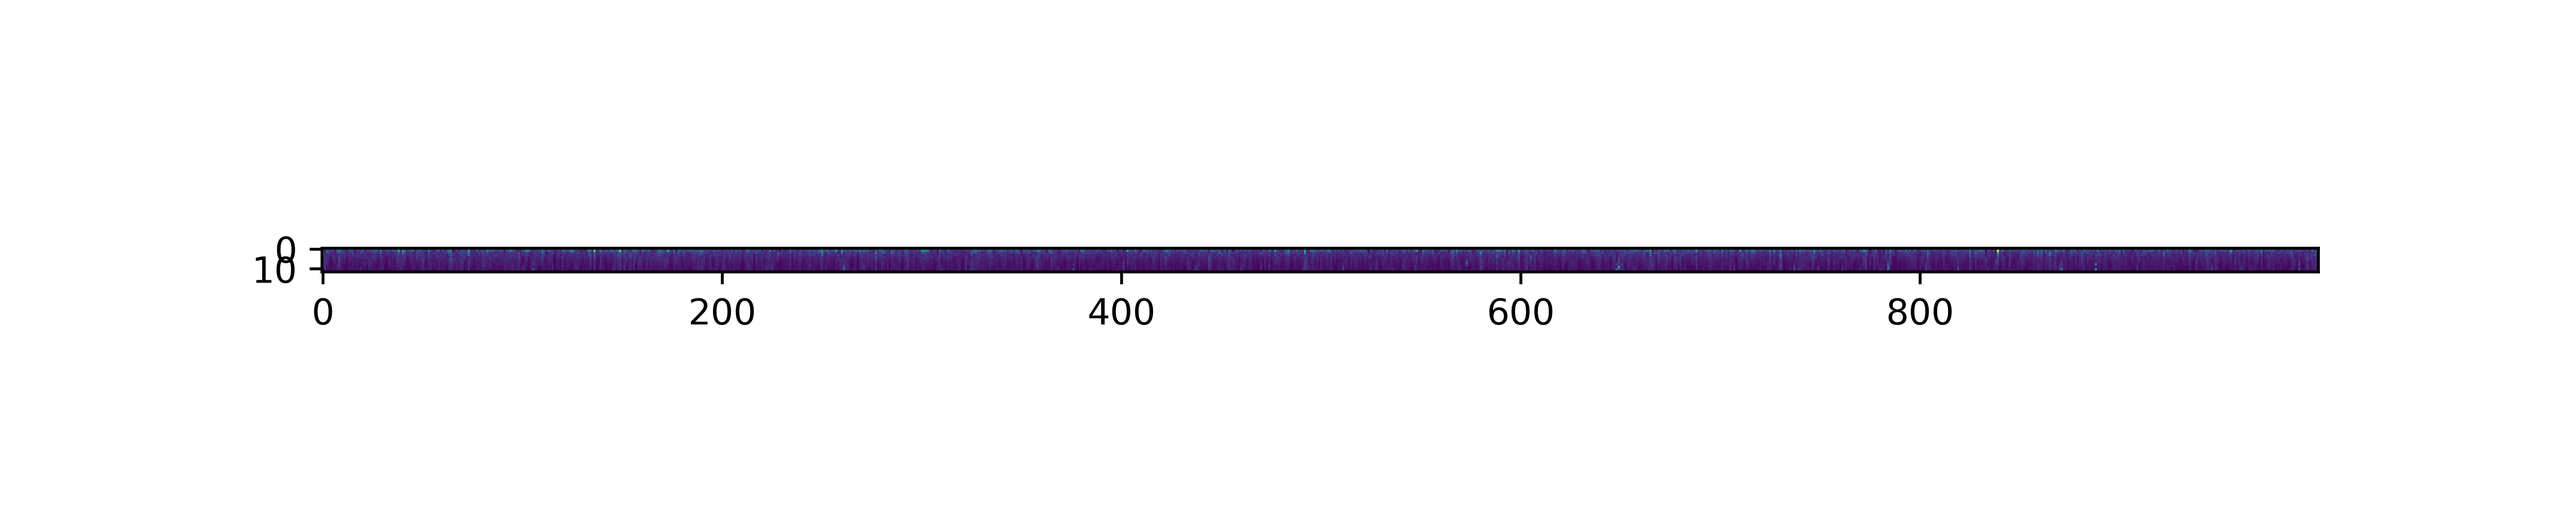
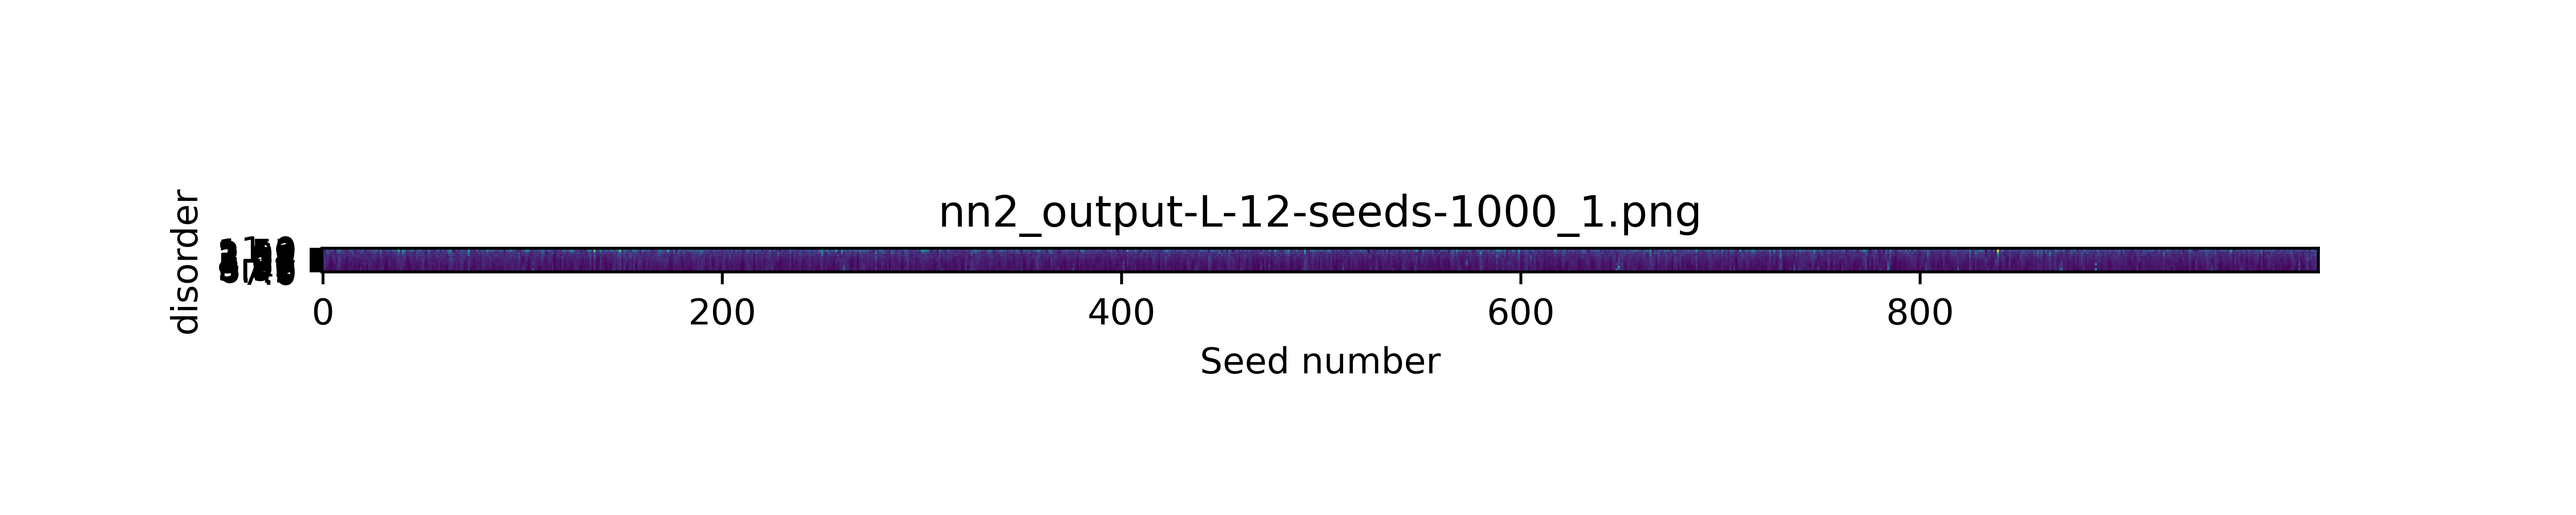
a

Changed region(s): [[0.3432, 0.372, 0.6552, 0.465], [0.0624, 0.403, 0.1248, 0.651], [0.468, 0.682, 0.5616, 0.744]]

diff --git a/Cluster/imshow_2nn.py b/Cluster/imshow_2nn.py
@@ -15,10 +15,24 @@ for seed in range(1000):
 data = np.array(data).T
 print(data)
 
-plt.figure(figsize=(5,10))
+plt.figure(figsize=(10,2))
 plt.imshow(data)
-plt.savefig("nn2_output-L-{}-seeds-{}.png".format(L, seed+1), dpi=500)
 plt.xlabel('Seed number')
 plt.ylabel("disorder")
 plt.yticks(range(12),[1.0, 1.55, 2.09, 2.64, 3.18, 3.73, 4.27, 4.82, 5.36, 5.91, 6.45, 7.0])
-plt.title("nn2_output-L-{}-seeds-{}.png".format(L, seed+1))
+plt.title("nn2_output-L-{}-seeds-{}_1.png".format(L, seed+1))
+plt.savefig("nn2_output-L-{}-seeds-{}.png".format(L, seed+1), dpi=500)
+
+
+x = [1.0, 1.55, 2.09, 2.64, 3.18, 3.73, 4.27, 4.82, 5.36, 5.91, 6.45, 7.0]
+y = np.mean(data, axis=1)
+print(y)
+plt.figure(figsize=(12,6))
+plt.plot(x,y)
+plt.scatter(x,y)
+plt.title('Mean result from 2nn')
+plt.xlabel('disorder strength, $W$')
+plt.ylabel('Intrinsic dimension')
+
+
+plt.savefig('2nn_mean.png', dpi=500)
